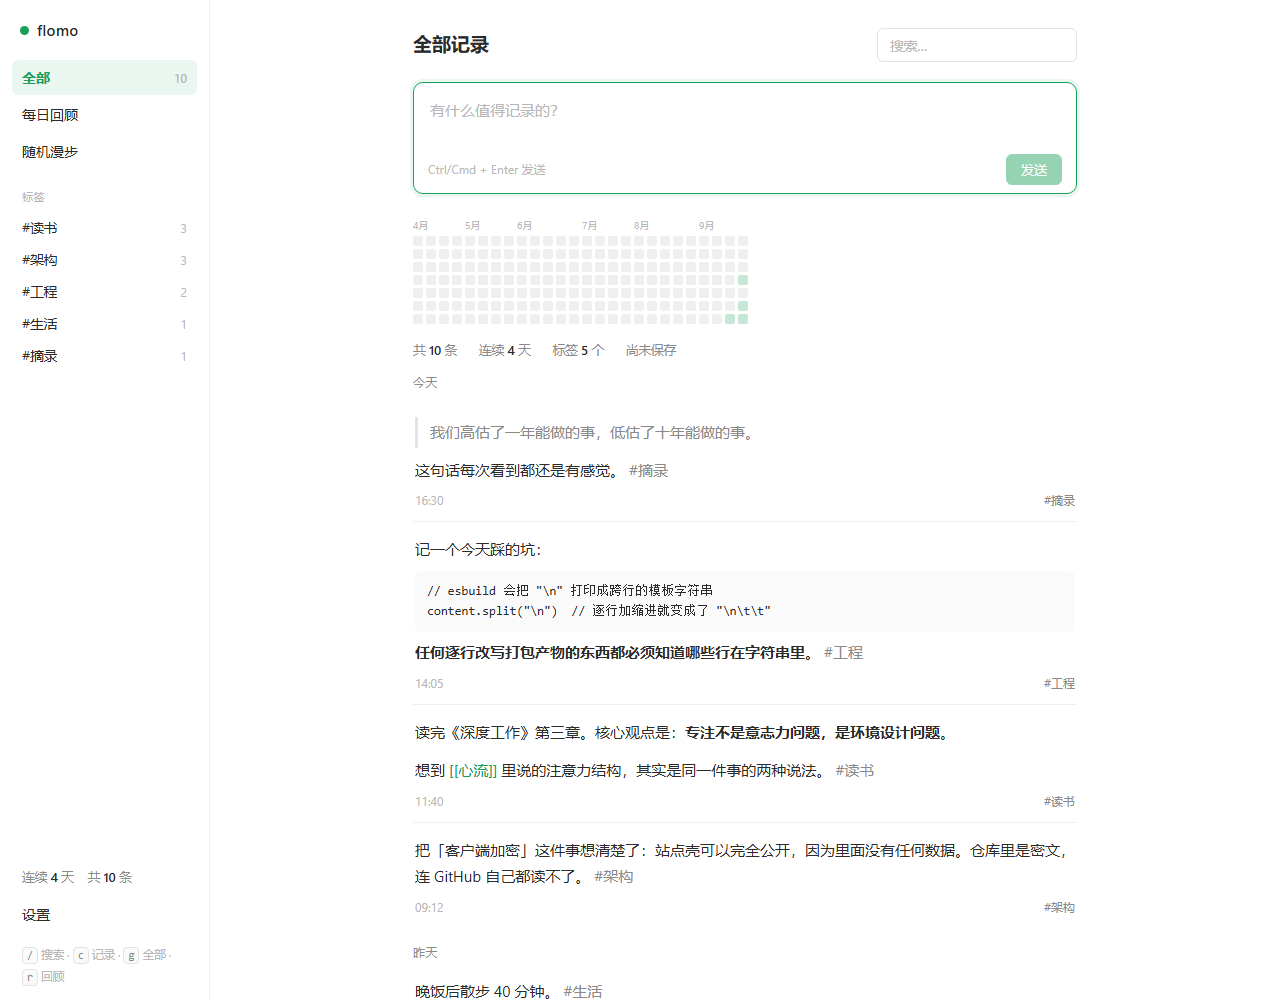
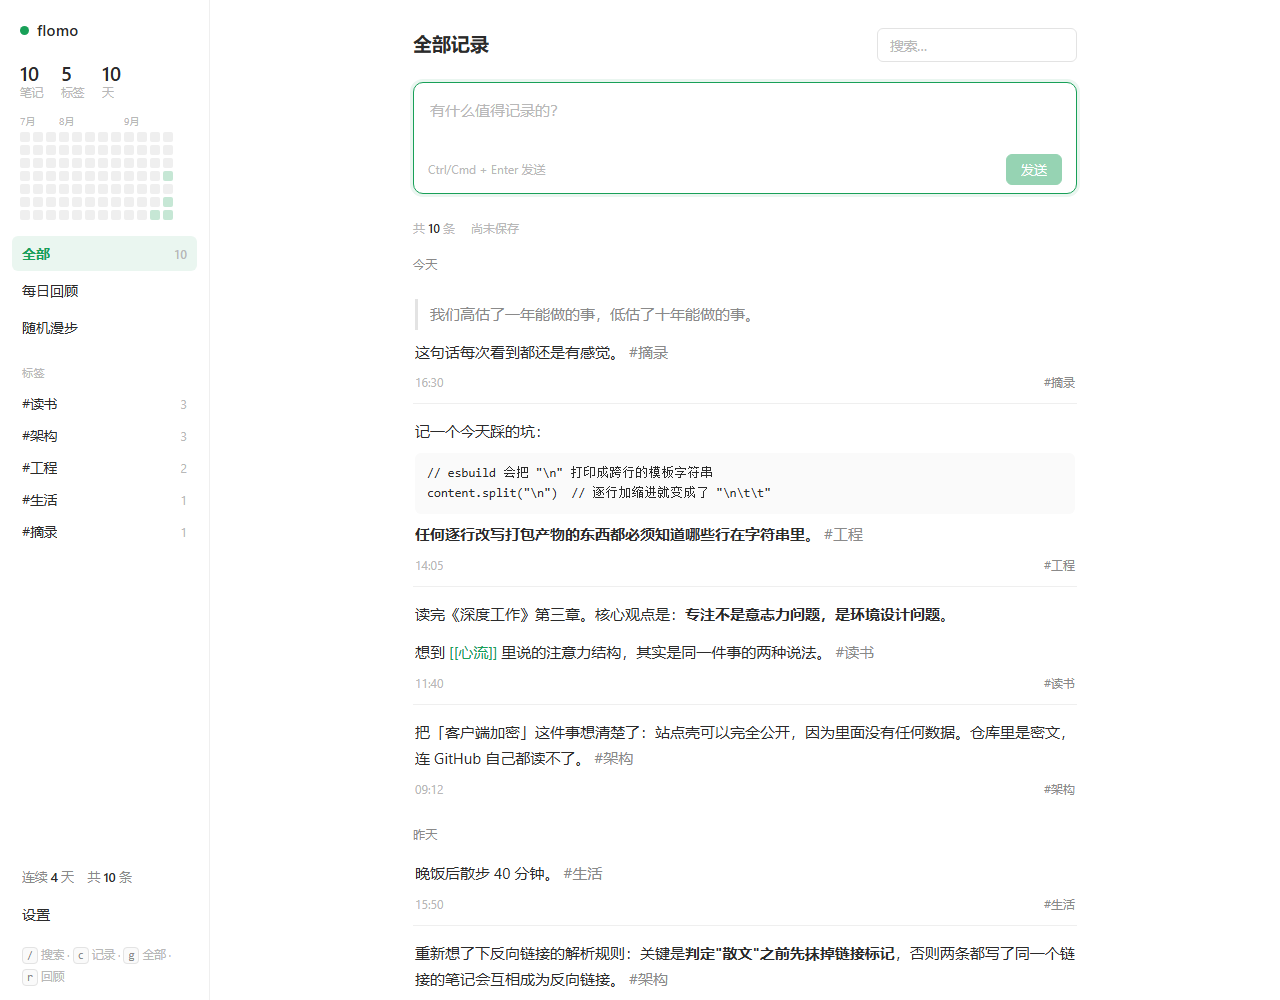
feat(ui): put the calendar and the corpus numbers in the sidebar, like flomo
The layout put the heatmap in the main column, between the composer and the feed.
flomo puts it in the left column, above the navigation, with the note/tag/day
counts stacked above it — and the arrangement is right: those three numbers and the
calendar describe the whole corpus, so above the feed they only push the notes down
the page.

So the sidebar is now brand → counts → calendar → navigation → tags, and the main
column keeps one small caption that belongs to the list rather than to the corpus
(how many notes are showing, and whether they are saved).

The calendar is twelve weeks in the column rather than the twenty-six the component
defaults to. The column is about 210px wide and a scrolling calendar is not a
calendar.

One thing the reference screenshot settled that I would have got wrong. It shows
273 notes, 163 tags and 1778 days — and 1778 is larger than the number of notes, so
"天" cannot be the days on which something was written. It is the span from the
first memo to today, which the corpus stats did not have; they only counted active
days. Added as `span`, with the distinction written down, because the two numbers
look interchangeable and are not.

238 tests passing.

diff --git a/packages/ui/src/FlomoApp.tsx b/packages/ui/src/FlomoApp.tsx
@@ -27,7 +27,6 @@ import {
 import { Composer } from './Composer.tsx'
 import { downloadText } from './download.ts'
 import { Feed } from './Feed.tsx'
-import { Heatmap } from './Heatmap.tsx'
 import { Sidebar } from './Sidebar.tsx'
 import { UnlockGate } from './UnlockGate.tsx'
 import { injectFlomoStyles } from './styles.ts'
@@ -353,22 +352,17 @@ export function FlomoApp({
             />
           ) : null}
 
+          {/* The calendar and the headline numbers live in the sidebar, the way flomo
+              arranges them — they describe the whole corpus, so above the feed they
+              only pushed the notes down the page. What is left here is the one
+              number that belongs to this list rather than to the corpus. */}
           {view.kind === 'all' ? (
-            <>
-              <Heatmap memos={snapshot.memos} />
-              <div className="fl-stats-strip">
-                <span>
-                  共 <strong>{stats.memos}</strong> 条
-                </span>
-                <span>
-                  连续 <strong>{stats.streak}</strong> 天
-                </span>
-                <span>
-                  标签 <strong>{stats.tags}</strong> 个
-                </span>
-                <span>{snapshot.saving ? '保存中…' : savedLabel(snapshot.lastSavedAt)}</span>
-              </div>
-            </>
+            <div className="fl-stats-strip fl-list-stats">
+              <span>
+                共 <strong>{stats.memos}</strong> 条
+              </span>
+              <span>{snapshot.saving ? '保存中…' : savedLabel(snapshot.lastSavedAt)}</span>
+            </div>
           ) : null}
 
           {view.kind === 'all' || view.kind === 'tag' ? (

diff --git a/packages/core/src/stats.ts b/packages/core/src/stats.ts
@@ -57,6 +57,35 @@ export interface CorpusStats {
   streak: number
   /** Number of distinct days with at least one memo. */
   activeDays: number
+  /**
+   * Days from the first memo to today, inclusive.
+   *
+   * Distinct from {@link activeDays}, and the difference is the point: flomo shows
+   * this one beside the note and tag counts, and it is the span of the whole record
+   * rather than how many of those days were written in. It is always at least the
+   * number of days on which anything was written, and usually far more.
+   */
+  span: number
+}
+
+/**
+ * Days from the first memo's day to today, inclusive.
+ * @param memos - the corpus.
+ * @param today - reference instant.
+ * @returns the span in days, or 0 for an empty corpus.
+ */
+function span(memos: readonly Memo[], today: Date): number {
+  const days = [...heatmap(memos).keys()].sort()
+  const first = days[0]
+  if (first === undefined) return 0
+
+  const [y, m, d] = first.split('-').map(Number)
+  if (y === undefined || m === undefined || d === undefined) return 0
+
+  const start = new Date(y, m - 1, d).getTime()
+  const end = new Date(today.getFullYear(), today.getMonth(), today.getDate()).getTime()
+  // Rounded rather than floored: a DST shift makes the difference a fraction off.
+  return Math.max(1, Math.round((end - start) / 86_400_000) + 1)
 }
 
 /**
@@ -79,5 +108,6 @@ export function corpusStats(
     tags: distinctTags,
     streak: streak(memos, today),
     activeDays: heatmap(memos).size,
+    span: span(memos, today),
   }
 }

diff --git a/packages/ui/src/Sidebar.tsx b/packages/ui/src/Sidebar.tsx
@@ -9,8 +9,18 @@ import type * as React from 'react'
 import { corpusStats } from '@flomo/core'
 import type { Memo, TagStat } from '@flomo/core'
 
+import { Heatmap } from './Heatmap.tsx'
 import { sameView } from './views.ts'
 import type { FlomoView } from './views.ts'
+
+/**
+ * Weeks of heatmap shown in the column.
+ *
+ * Fewer than the 26 the component defaults to, because the sidebar is about 210px
+ * wide and flomo puts its calendar there rather than above the feed. Twelve weeks
+ * fits without a scrollbar and still reads as a calendar.
+ */
+const SIDEBAR_WEEKS = 12
 
 export interface SidebarProps {
   view: FlomoView
@@ -56,6 +66,22 @@ export function Sidebar({
         <span className="fl-brand-dot" aria-hidden="true" />
         {brand}
       </div>
+
+      {/* The headline numbers and the calendar sit at the top of the column, the way
+          flomo arranges them. They describe the whole corpus rather than the list
+          below them, so putting them above the feed only pushed the notes down. */}
+      <div className="fl-corpus-stats">
+        <span>
+          <strong>{stats.memos}</strong> 笔记
+        </span>
+        <span>
+          <strong>{stats.tags}</strong> 标签
+        </span>
+        <span>
+          <strong>{stats.span}</strong> 天
+        </span>
+      </div>
+      <Heatmap memos={memos} weeks={SIDEBAR_WEEKS} />
 
       <button {...rowProps({ kind: 'all' })}>
         <span>全部</span>

diff --git a/packages/ui/src/styles.ts b/packages/ui/src/styles.ts
@@ -693,6 +693,37 @@ export const FLOMO_CSS = `
 
 .fl-stats-strip strong { color: var(--flomo-text); font-weight: 600; }
 
+/* The one count that belongs to the list rather than to the corpus. Quiet, and
+   tight against the feed, so it reads as a caption rather than a dashboard. */
+.fl-list-stats {
+  gap: 16px;
+  margin: 14px 0 4px;
+  font-size: 12px;
+  color: var(--flomo-text-faint);
+}
+
+/* The corpus numbers above the calendar, stacked the way flomo stacks them: the
+   figure large and the label small beneath it. */
+.fl-corpus-stats {
+  display: flex;
+  gap: 18px;
+  padding: 0 8px 14px;
+  font-size: 11.5px;
+  color: var(--flomo-text-faint);
+}
+
+.fl-corpus-stats strong {
+  display: block;
+  font-size: 20px;
+  font-weight: 600;
+  line-height: 1.25;
+  color: var(--flomo-text);
+}
+
+/* The calendar lives in the column, so it is inset to line up with the rows
+   above and below it rather than running to the edges. */
+.fl-sidebar .fl-heatmap-wrap { padding: 0 8px 14px; }
+
 /* ── misc ────────────────────────────────────────────────────────────── */
 
 .fl-loading { padding: 80px 0; text-align: center; color: var(--flomo-text-faint); font-size: 14px; }

diff --git a/README.md b/README.md
@@ -59,7 +59,10 @@
 **回顾（flomo 的灵魂）**
 - **每日回顾**：3 条较旧记录，**当天固定不变**（用日期做种子），并排除最近两天
 - **随机漫步**：一次一条，可「再抽一条」
-- **记录热力图**：近半年的方格图 + 连续记录天数
+- **侧栏顶部的三个数字**（笔记 / 标签 / 天）与**记录热力图** —— 和 flomo 一样放在
+  导航**上方**：它们描述的是整个语料，摆在信息流上方只会把笔记往下挤。
+  热力图在侧栏显示约 12 周（宽度所限），带月份标签
+- 「天」是**从第一条记录至今**的天数，不是"有记录的天数" —— flomo 也是这个口径
 
 **数据**
 - 导出 **Markdown**（按绝对日期分组，便于阅读和 grep）
